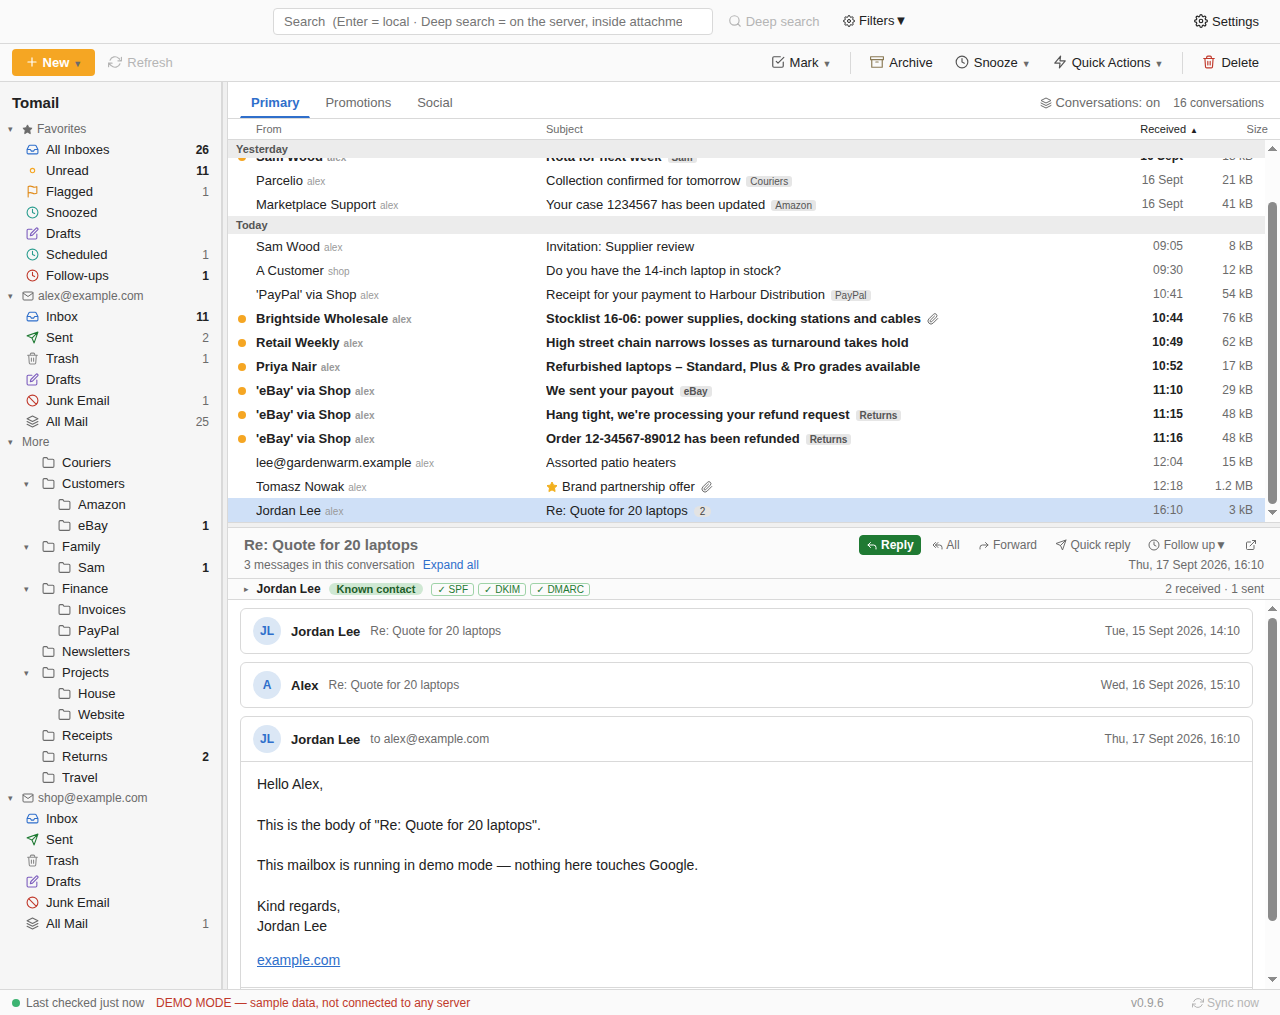
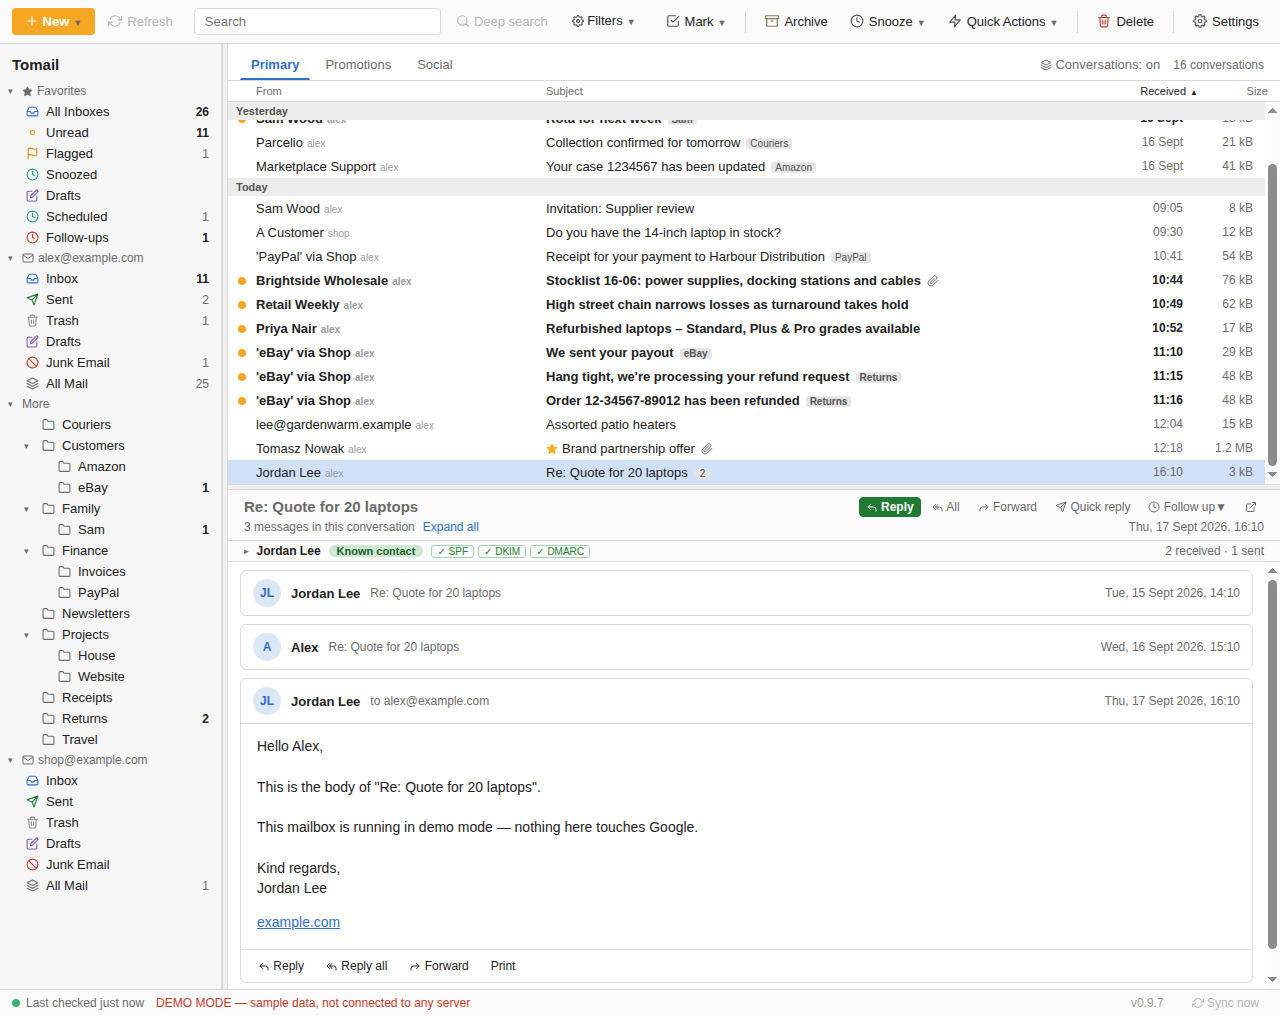
One top bar with search in the middle; always load images from a chosen sender
- The search bar and the action toolbar were two rows; they are one now:
  New / Refresh, search (with Deep search and Filters) centred, then Mark,
  Archive, Snooze, Quick Actions, Delete and Settings. The search box shrinks
  before anything else does, so the bar fits narrow windows.
- "Remote images are blocked" now offers "Always load from <sender>" alongside
  "Load images". Trusted addresses live in prefs.imageSenders (Settings →
  General → Remote images lists them with a ✕ to remove). Works in the reading
  pane, conversation cards and the pop-out window.
- Demo harness: the compose screenshot clicked the toolbar Reply that no longer
  exists; it now uses the header's.
- README screenshots refreshed.

diff --git a/src/App.jsx b/src/App.jsx
@@ -287,27 +287,27 @@ export default function App() {
   const draftCounts = useMemo(() => { const o = { all: drafts.local.length + drafts.remote.length }; for (const d of [...drafts.local, ...drafts.remote]) o[d.accountId] = (o[d.accountId] || 0) + 1; return o; }, [drafts]);
   const selLabels = labels[selected[0]?.accountId || view.accountId] || [];
 
+  const trustSender = (email) => {
+    const list = [...new Set([...(prefs?.imageSenders || []), email.toLowerCase()])];
+    mail.settings.set({ prefs: { imageSenders: list } }).then(s => { setPrefs(s.prefs); toast(`Images from ${email} will always load`); }).catch(e => toast(e.message, true));
+  };
   if (locked) return <LockScreen onUnlock={() => { setLocked(false); lastActivity.current = Date.now(); }} />;
   return (
     <div className="app">
-      <div className="topbar">
+      <div className="toolbar topbar">
+        {accounts.length > 1
+          ? <Dropdown className="newdd" btnClass="new-btn" label={<><Icon name="plus" /> New</>}>{accounts.map(a => <MI key={a.id} onClick={() => mail.compose.open({ mode: 'new', accountId: a.id })}><Icon name="mail" /> from {a.email}</MI>)}</Dropdown>
+          : <button className="new-btn" onClick={() => openCompose('new')} disabled={!accounts.length}><Icon name="plus" /> New</button>}
+        <button onClick={() => { mail.sync.now(); toast('Checking for new mail…'); }} disabled={!accounts.length || info?.demo}><span className="ico"><Icon name="refresh" /></span>Refresh</button>
         <div className="search">
           <div className="wrap">
-            <input type="text" placeholder="Search  (Enter = local · Deep search = on the server, inside attachments)" value={search} onChange={e => setSearch(e.target.value)}
+            <input type="text" placeholder="Search" title="Enter searches locally · Deep search asks the mail server and looks inside attachments" value={search} onChange={e => setSearch(e.target.value)}
               onKeyDown={e => { if (e.key === 'Enter') runSearch(false); if (e.key === 'Escape') { setSearch(''); if (view.kind === 'search' || view.kind === 'ids') setView(HOME); } }} />
             {search && <button className="clear" onClick={() => { setSearch(''); if (view.kind === 'search' || view.kind === 'ids') setView(HOME); }}>✕</button>}
           </div>
           <button onClick={() => runSearch(true)} disabled={!search.trim() && !view.filters} title="Search on the mail server — bodies and attachment contents"><Icon name="search" /> Deep search</button>
           <FilterMenu filters={view.filters} setFilters={setFilters} accounts={accounts} labels={Object.values(labels).flat()} />
         </div>
-        <div className="right"><button onClick={() => setSettingsOpen(true)} title="Settings"><Icon name="settings" size={14} /> Settings</button></div>
-      </div>
-      <div className="toolbar">
-        {accounts.length > 1
-          ? <Dropdown className="newdd" btnClass="new-btn" label={<><Icon name="plus" /> New</>}>{accounts.map(a => <MI key={a.id} onClick={() => mail.compose.open({ mode: 'new', accountId: a.id })}><Icon name="mail" /> from {a.email}</MI>)}</Dropdown>
-          : <button className="new-btn" onClick={() => openCompose('new')} disabled={!accounts.length}><Icon name="plus" /> New</button>}
-        <button onClick={() => { mail.sync.now(); toast('Checking for new mail…'); }} disabled={!accounts.length || info?.demo}><span className="ico"><Icon name="refresh" /></span>Refresh</button>
-        <span className="spacer" />
         <MarkMenu disabled={!hasSel} onMark={doMark} inSpam={view.labelId === 'SPAM'} />
         <span className="sep" />
         {inTrash ? <button className="act arch" disabled={!hasSel} onClick={doRestore}><span className="ico"><Icon name="inbox" /></span>Restore</button>
@@ -320,6 +320,8 @@ export default function App() {
           onNewLabel={(n) => mail.labels.create(selected[0]?.accountId || view.accountId || accounts[0]?.id, n).then(() => toast('Folder created')).catch(e => toast(e.message, true))} />
         <span className="sep" />
         <button className="act del" disabled={!hasSel} onClick={doTrash} title={inTrash ? 'Delete permanently' : 'Move to Trash'}><span className="ico"><Icon name="trash" /></span>{inTrash ? 'Delete forever' : 'Delete'}</button>
+        <span className="sep" />
+        <button onClick={() => setSettingsOpen(true)} title="Settings"><span className="ico"><Icon name="settings" size={14} /></span>Settings</button>
       </div>
       <div className="body" style={{ gridTemplateColumns: `${sideW}px 6px 1fr` }}>
         {sideW > 0 ? <Sidebar accounts={accounts} labels={labels} counts={counts} view={view} setView={setView} status={status} draftCounts={draftCounts} onReorder={(ids) => mail.accounts.reorder(ids).then(loadMeta)} outboxCount={outbox.length} scheduledCount={scheduled.length} onOpenTab={(v) => openTab(v)} followups={{ total: followups.length, due: followups.filter(f => f.status === 'due').length }} onLabelMenu={(e, accountId, l) => setLabelMenu({ x: e.clientX, y: e.clientY, accountId, label: l })} /> : <div />}
@@ -368,7 +370,7 @@ export default function App() {
                   </div></div>); })()
                   : view.kind === 'outbox' && selected.length === 1 ? <div className="read"><div className="empty"><div className="big"><Icon name="send" size={56} style={{ strokeWidth: 1 }} /></div><div>Waiting for a connection{itemsRef.current.find(i => i.id === selected[0].id)?.snippet ? ': ' + itemsRef.current.find(i => i.id === selected[0].id).snippet : ''}</div><div><button className="primary" onClick={() => openItem(itemsRef.current.find(i => i.id === selected[0].id))}>Send now</button> <button onClick={() => { const it = itemsRef.current.find(i => i.id === selected[0].id); mail.outbox.remove(it.outboxId).then(() => loadList(view)); }}>Delete</button></div></div></div>
                   : view.kind === 'drafts' && selected.length === 1 ? <div className="read"><div className="empty"><div className="big"><Icon name="edit" size={56} style={{ strokeWidth: 1 }} /></div><div><button className="primary" onClick={() => openItem(itemsRef.current.find(i => i.id === selected[0].id))}>Open draft</button> <button onClick={() => { const it = itemsRef.current.find(i => i.id === selected[0].id); if (it?.draftId) mail.drafts.remove(it.draftId).then(() => loadList(view)); else if (it?.remoteDraft) mail.actions.trash([{ accountId: it.accountId, id: it.id }]); }}>Delete</button></div></div></div>
-                  : <ReadingPane message={message} thread={thread} loading={msgLoading} prefs={prefs} error={msgError}
+                  : <ReadingPane message={message} thread={thread} loading={msgLoading} prefs={prefs} error={msgError} onTrustSender={trustSender}
                     onRespond={async (m, p) => { try { await mail.actions.respondInvite(m.accountId, m.id, p); toast('Reply sent to the organiser'); const full = await mail.messages.get(m.accountId, m.id); setMessage(cur => cur?.id === m.id ? full : cur); } catch (e) { toast(e.message, true); } }}
                     onPrint={(m) => mail.messages.print(m.accountId, m.id).catch(e => toast(e.message, true))} onReplyTo={(m, mode) => openCompose(mode, m)} onPopOut={(m) => mail.messages.openWindow(m.accountId, m.id)} toast={toast} quickReply={quickReplyFocus}
                     onOpenMessage={(r) => { setView({ kind: 'all', accountId: r.accountId }); setTimeout(() => setSelected([{ accountId: r.accountId, id: r.id }]), 300); }}

diff --git a/src/components/ReadingPane.jsx b/src/components/ReadingPane.jsx
@@ -221,13 +221,15 @@ function Header({ message, onPrint, extra, onPopOut, toast, onReplyTo, onQuickRe
 }
 
 /** One message in a conversation stack. Fetches its body when first expanded. */
-function ThreadCard({ m, open, onToggle, prefs, onRespond, onPrint, onReplyTo, toast }) {
+const trustedSender = (prefs, email) => !!email && (prefs?.imageSenders || []).includes(email.toLowerCase());
+
+function ThreadCard({ m, open, onToggle, prefs, onRespond, onPrint, onReplyTo, toast, onTrustSender }) {
   const [full, setFull] = useState(m.bodyFetched ? m : null);
   const [allow, setAllow] = useState(false);
   useEffect(() => { if (open && (!full || !full.bodyFetched)) window.mail.messages.get(m.accountId, m.id).then(setFull).catch(() => {}); }, [open, m.accountId, m.id]); // eslint-disable-line
   useEffect(() => { if (m.bodyFetched) setFull(m); }, [m]);
   const body = full || m;
-  const allowRemote = prefs?.loadRemoteImages || allow;
+  const allowRemote = prefs?.loadRemoteImages || allow || trustedSender(prefs, m.fromEmail);
   const initials = (m.fromName || m.fromEmail || '?').split(/\s+/).map(s => s[0]).join('').slice(0, 2).toUpperCase();
   return (
     <div className={'card' + (open ? ' open' : '')}>
@@ -243,7 +245,7 @@ function ThreadCard({ m, open, onToggle, prefs, onRespond, onPrint, onReplyTo, t
         <div className="cb">
           {body.calendar && <InviteCard m={body} onRespond={onRespond} />}
           <Attachments m={body} toast={toast} />
-          {hasRemoteImages(body.bodyHtml) && !allowRemote && <div className="imgbar"><Icon name="image" size={13} /> Remote images blocked. <button onClick={() => setAllow(true)}>Load images</button></div>}
+          {hasRemoteImages(body.bodyHtml) && !allowRemote && <div className="imgbar"><Icon name="image" size={13} /> Remote images blocked. <button onClick={() => setAllow(true)}>Load images</button>{onTrustSender && m.fromEmail && <button onClick={() => onTrustSender(m.fromEmail)}>Always load from {m.fromEmail}</button>}</div>}
           {body.bodyHtml ? <BodyFrame html={body.bodyHtml} allowRemote={allowRemote} autoHeight /> : <div className="plain">{body.bodyText || (body.bodyFetched ? '' : 'Loading…')}</div>}
           <div className="cactions">
             <button onClick={() => onReplyTo(body, 'reply')}><Icon name="reply" size={12} /> Reply</button>
@@ -257,7 +259,7 @@ function ThreadCard({ m, open, onToggle, prefs, onRespond, onPrint, onReplyTo, t
   );
 }
 
-export default function ReadingPane({ message, thread, loading, prefs, error, onRespond, onPrint, onReplyTo, onPopOut, onOpenMessage, onRuleFromSender, toast, quickReply }) {
+export default function ReadingPane({ message, thread, loading, prefs, error, onRespond, onPrint, onReplyTo, onPopOut, onOpenMessage, onRuleFromSender, toast, quickReply, onTrustSender }) {
   const [allow, setAllow] = useState({});
   const [senderInfo, setSenderInfo] = useState(null);
   const [seed, setSeed] = useState(null);
@@ -265,7 +267,7 @@ export default function ReadingPane({ message, thread, loading, prefs, error, on
   const [qrOpen, setQrOpen] = useState(false);
   useEffect(() => { setQrOpen(!!quickReply); }, [message?.id, quickReply]);
   useEffect(() => { if (thread?.length) setOpenIds(new Set([thread[thread.length - 1].id, ...thread.filter(m => m.unread).map(m => m.id)])); }, [thread?.map(m => m.id).join(',')]); // eslint-disable-line
-  const allowRemote = !!(prefs?.loadRemoteImages || (message && allow[message.id]));
+  const allowRemote = !!(prefs?.loadRemoteImages || (message && (allow[message.id] || trustedSender(prefs, message.fromEmail))));
   if (!message) return <div className="read"><div className="empty"><div className="big"><Icon name="mail" size={56} style={{ strokeWidth: 1 }} /></div><div>{loading ? 'Loading…' : 'Select a message to read'}</div></div></div>;
 
   if (thread && thread.length > 1) {
@@ -288,7 +290,7 @@ export default function ReadingPane({ message, thread, loading, prefs, error, on
         {latest.bodyFetched && <PhishingBanner message={latest} senderInfo={senderInfo} />}
         {latest.bodyFetched && <AiPanel message={latest} thread={thread} onSuggest={(t) => setSeed({ text: t, at: Date.now() })} />}
         <div className="thread">
-          {thread.map(m => <ThreadCard key={m.id} m={m.id === message.id ? message : m} open={openIds.has(m.id)} prefs={prefs} onRespond={onRespond} onPrint={onPrint} onReplyTo={onReplyTo} toast={toast}
+          {thread.map(m => <ThreadCard key={m.id} m={m.id === message.id ? message : m} open={openIds.has(m.id)} prefs={prefs} onRespond={onRespond} onPrint={onPrint} onReplyTo={onReplyTo} toast={toast} onTrustSender={onTrustSender}
             onToggle={() => setOpenIds(s => { const n = new Set(s); n.has(m.id) ? n.delete(m.id) : n.add(m.id); return n; })} />)}
           {!latest.labels?.includes('SENT') && <QuickReply message={latest} toast={toast} autoFocus={quickReply} seed={seed} open={qrOpen} setOpen={setQrOpen} />}
         </div>
@@ -305,7 +307,7 @@ export default function ReadingPane({ message, thread, loading, prefs, error, on
       {message.calendar && <InviteCard m={message} onRespond={onRespond} />}
       <Attachments m={message} toast={toast} />
       {error && <div className="imgbar" style={{ background: '#fde8e6', borderColor: '#f3b5ae' }}>⚠ {error}</div>}
-      {hasRemoteImages(message.bodyHtml) && !allowRemote && <div className="imgbar"><Icon name="image" size={13} /> Remote images are blocked in this message. <button onClick={() => setAllow(a => ({ ...a, [message.id]: true }))}>Load images</button></div>}
+      {hasRemoteImages(message.bodyHtml) && !allowRemote && <div className="imgbar"><Icon name="image" size={13} /> Remote images are blocked in this message. <button onClick={() => setAllow(a => ({ ...a, [message.id]: true }))}>Load images</button>{onTrustSender && message.fromEmail && <button title="Remember this sender — their images load without asking (Settings → General to undo)" onClick={() => onTrustSender(message.fromEmail)}>Always load from {message.fromEmail}</button>}</div>}
       {!message.bodyFetched && loading && <div className="plain muted">Downloading message…</div>}
       {message.bodyHtml ? <BodyFrame html={message.bodyHtml} allowRemote={allowRemote} /> : <div className="plain">{message.bodyText || (message.bodyFetched ? '' : message.snippet)}</div>}
       {message.bodyFetched && !message.labels?.includes('SENT') && <QuickReply message={message} toast={toast} autoFocus={quickReply} seed={seed} open={qrOpen} setOpen={setQrOpen} />}

diff --git a/src/styles.css b/src/styles.css
@@ -22,13 +22,14 @@ input:focus, textarea:focus, select:focus { border-color: var(--accent); box-sha
 a { color: var(--accent); }
 .muted { color: var(--muted); } .faint { color: var(--faint); }
 
-.app { display: grid; grid-template-rows: 44px 38px 1fr 26px; height: 100%; }
+.app { display: grid; grid-template-rows: 44px 1fr 26px; height: 100%; }
 /* ── top bar ── */
 .topbar { display: flex; align-items: center; gap: 8px; padding: 0 12px; border-bottom: 1px solid var(--border); background: #fafafa; }
 .topbar .burger { font-size: 18px; padding: 2px 8px; }
-.topbar .search { flex: 1; display: flex; justify-content: center; gap: 6px; }
-.topbar .search input { width: 440px; max-width: 60vw; padding: 5px 30px 5px 10px; }
-.topbar .search .wrap { position: relative; }
+.topbar .search { flex: 1; display: flex; justify-content: center; gap: 6px; margin: 0 8px; min-width: 0; }
+.toolbar.topbar { min-width: 0; overflow: hidden; white-space: nowrap; }
+.topbar .search input { width: 100%; padding: 5px 30px 5px 10px; box-sizing: border-box; }
+.topbar .search .wrap { position: relative; flex: 1 1 440px; max-width: 440px; min-width: 140px; }
 .topbar .search .clear { position: absolute; right: 4px; top: 3px; padding: 2px 6px; color: var(--muted); }
 .topbar .title { position: absolute; left: 50%; transform: translateX(-50%); top: 0; font-size: 13px; color: var(--muted); }
 
@@ -232,6 +233,7 @@ button.go:hover:not(:disabled) { background: #19662a; }
 .chips { display: flex; gap: 6px; padding: 4px 12px; border-bottom: 1px solid var(--border); flex-wrap: wrap; align-items: center; font-size: 12px; }
 .chips .chip { background: var(--accent-bg); color: var(--accent); border-radius: 12px; padding: 1px 8px; display: inline-flex; gap: 4px; align-items: center; }
 .chips .chip button { padding: 0 2px; color: inherit; }
+.chips.inline { padding: 0; border: 0; }
 .fmenu .frow { display: grid; grid-template-columns: 90px 1fr; gap: 6px; align-items: center; padding: 3px 12px; }
 .fmenu .frow label { color: var(--muted); font-size: 12px; }
 .fmenu .frow input, .fmenu .frow select { width: 100%; }

diff --git a/src/components/SettingsModal.jsx b/src/components/SettingsModal.jsx
@@ -153,6 +153,7 @@ export default function SettingsModal({ onClose, accounts, refreshAccounts, toas
             <div className="frow"><label>Read ahead</label><label title="Downloads recent inbox mail in the background so opening it is instant"><input type="checkbox" checked={s.prefs.prefetchBodies !== false} onChange={e => pref('prefetchBodies', e.target.checked)} /> download recent inbox messages before you open them</label></div>
             <div className="frow"><label></label><small>Uses a little more disk and a little more of your mail provider's quota. It waits until the first sync of an account has finished.</small></div>
             <div className="frow"><label>Remote images</label><label><input type="checkbox" checked={!!s.prefs.loadRemoteImages} onChange={e => pref('loadRemoteImages', e.target.checked)} /> always load images in messages (tracking pixels will fire)</label></div>
+            {(s.prefs.imageSenders || []).length > 0 && <div className="frow"><label>Always from</label><div className="chips inline">{s.prefs.imageSenders.map(e => <span key={e} className="chip">{e}<button title="Stop loading images from this sender automatically" onClick={() => pref('imageSenders', s.prefs.imageSenders.filter(x => x !== e))}>✕</button></span>)}</div></div>}
 
             <div className="sgroup">Writing</div>
             <div className="frow"><label>Undo send</label><div><input type="number" min="0" max="30" style={{ width: 70 }} value={s.prefs.sendDelaySec ?? 5} onChange={e => pref('sendDelaySec', Number(e.target.value))} /> seconds to cancel after pressing Send (0 = send immediately)</div></div>

diff --git a/src/MessageWindow.jsx b/src/MessageWindow.jsx
@@ -35,7 +35,8 @@ export default function MessageWindow({ accountId, id }) {
       <div className="main" style={{ minHeight: 0 }}>
         {error ? <div className="empty">{error}</div> : <ReadingPane message={message} thread={thread} loading={!message} prefs={prefs} error={null}
           onRespond={async (m, p) => { try { await window.mail.actions.respondInvite(m.accountId, m.id, p); toast('Reply sent to the organiser'); load(); } catch (e) { toast(e.message, true); } }}
-          toast={toast} onPrint={(m) => window.mail.messages.print(m.accountId, m.id)} onReplyTo={(m, mode) => window.mail.compose.open({ mode, accountId: m.accountId, originalId: m.id })} />}
+          toast={toast} onPrint={(m) => window.mail.messages.print(m.accountId, m.id)}
+          onTrustSender={(email) => window.mail.settings.set({ prefs: { imageSenders: [...new Set([...(prefs?.imageSenders || []), email.toLowerCase()])] } }).then(s => { setPrefs(s.prefs); toast(`Images from ${email} will always load`); }).catch(e => toast(e.message, true))} onReplyTo={(m, mode) => window.mail.compose.open({ mode, accountId: m.accountId, originalId: m.id })} />}
       </div>
       {toastMsg && <div className={'toast' + (toastMsg.err ? ' err' : '')}>{toastMsg.m}</div>}
     </div>

diff --git a/electron/main.js b/electron/main.js
@@ -302,7 +302,7 @@ function createWindow() {
         await wait(1500); await shot('1-inbox.png');
         await js(`(() => { const r = document.querySelectorAll('.row')[5]; if (r) r.dispatchEvent(new MouseEvent('mousedown', { bubbles: true, button: 0 })); })()`);
         await wait(1200); await shot('2-reading.png');
-        await js(`(() => { const b = [...document.querySelectorAll('.toolbar button')].find(b => b.textContent.includes('Reply') && !b.textContent.includes('All')); b && b.click(); })()`);
+        await js(`(() => { const b = [...document.querySelectorAll('.read .hdr .hbtns button')].find(b => b.textContent.includes('Reply')); b && b.click(); })()`);
         await wait(1800);
         { const cw = [...composeWins.values()][0]?.win; if (cw && !cw.isDestroyed()) { fs.writeFileSync(path.join(dir, '3-compose.png'), (await cw.webContents.capturePage()).toPNG()); const rec = [...composeWins.values()][0]; rec.allowClose = true; cw.close(); } }
         await wait(300);

diff --git a/electron/settings.js b/electron/settings.js
@@ -7,7 +7,8 @@ const DEFAULTS = {
   // tray/closeToTray default on so a closed window doesn't stop new-mail notifications; macOS already
   // keeps running without windows, so it gets no tray icon unless asked.
   prefs: { syncIntervalSec: 60, fastPollSec: 20, loadRemoteImages: false, signature: '', markReadDelayMs: 1500, sendDelaySec: 5, bodyRetentionDays: 0,
-    tray: process.platform !== 'darwin', closeToTray: true, startAtLogin: false, prefetchBodies: true },
+    tray: process.platform !== 'darwin', closeToTray: true, startAtLogin: false, prefetchBodies: true,
+    imageSenders: [] }, // senders whose remote images always load (lower-cased addresses)
 };
 
 class Settings {

diff --git a/README.md b/README.md
@@ -71,7 +71,7 @@ For any other provider, **Settings → Accounts → Add other account (IMAP)**: 
 - Outbox: no connection? The message waits and goes out when you're back online
 - Per-account signatures
 
-<p align="center"><img src="docs/screenshots/compose-4.png" width="700" alt="Compose window"></p>
+<p align="center"><img src="docs/screenshots/compose-5.png" width="700" alt="Compose window"></p>
 <p align="center"><img src="docs/screenshots/window-5.png" width="700" alt="A message in its own window"></p>
 
 **✨ Local AI (optional)**
@@ -87,7 +87,7 @@ For any other provider, **Settings → Accounts → Add other account (IMAP)**: 
 - Operators: `from:` `to:` `subject:` `in:folder` `is:unread` `is:flagged` `has:attachment` `after:2026-01-01` `before:2026-02-01`, plus a Filters menu
 - **Deep search** runs the query on the server (Gmail syntax, inside attachments for Gmail)
 
-<p align="center"><img src="docs/screenshots/settings-4.png" width="800" alt="Settings"></p>
+<p align="center"><img src="docs/screenshots/settings-5.png" width="800" alt="Settings"></p>
 
 **Everything else**
 - Multiple accounts of either kind with a merged All Inboxes view
@@ -197,7 +197,7 @@ test/                     node:test suite (db, mime, batch parsing, sync, action
 
 | Version | Highlights |
 |---|---|
-| 0.9.7 | One compact message header with all the reply actions in it (no more duplicate Reply buttons), Electron 44.4 and current dependencies, and a release check that only publishes a complete build |
+| 0.9.7 | One bar across the top with search in the middle, one compact message header with all the reply actions in it (no more duplicate Reply buttons), "always load images from this sender", Electron 44.4 and current dependencies, and a release check that only publishes a complete build |
 | 0.9.6 | Proton Mail via Bridge · edit the quoted original when replying · a rate limiter that slows down when Gmail says to · resizable folder list, Reply at the top of a message, a version button that checks for updates, and some colour |
 | 0.9 | Tray icon with start-at-login, remembered window position, send-as aliases, oldest-first that opens on today, a settings dialog that stays put, new mail during a first sync, read-ahead so clicks are instant, and a mailbox of 200,000 that stops stalling |
 | 0.8 | Local AI via Ollama: summaries, suggested replies, drafting in your tone, rewriting, rules from a sentence |
